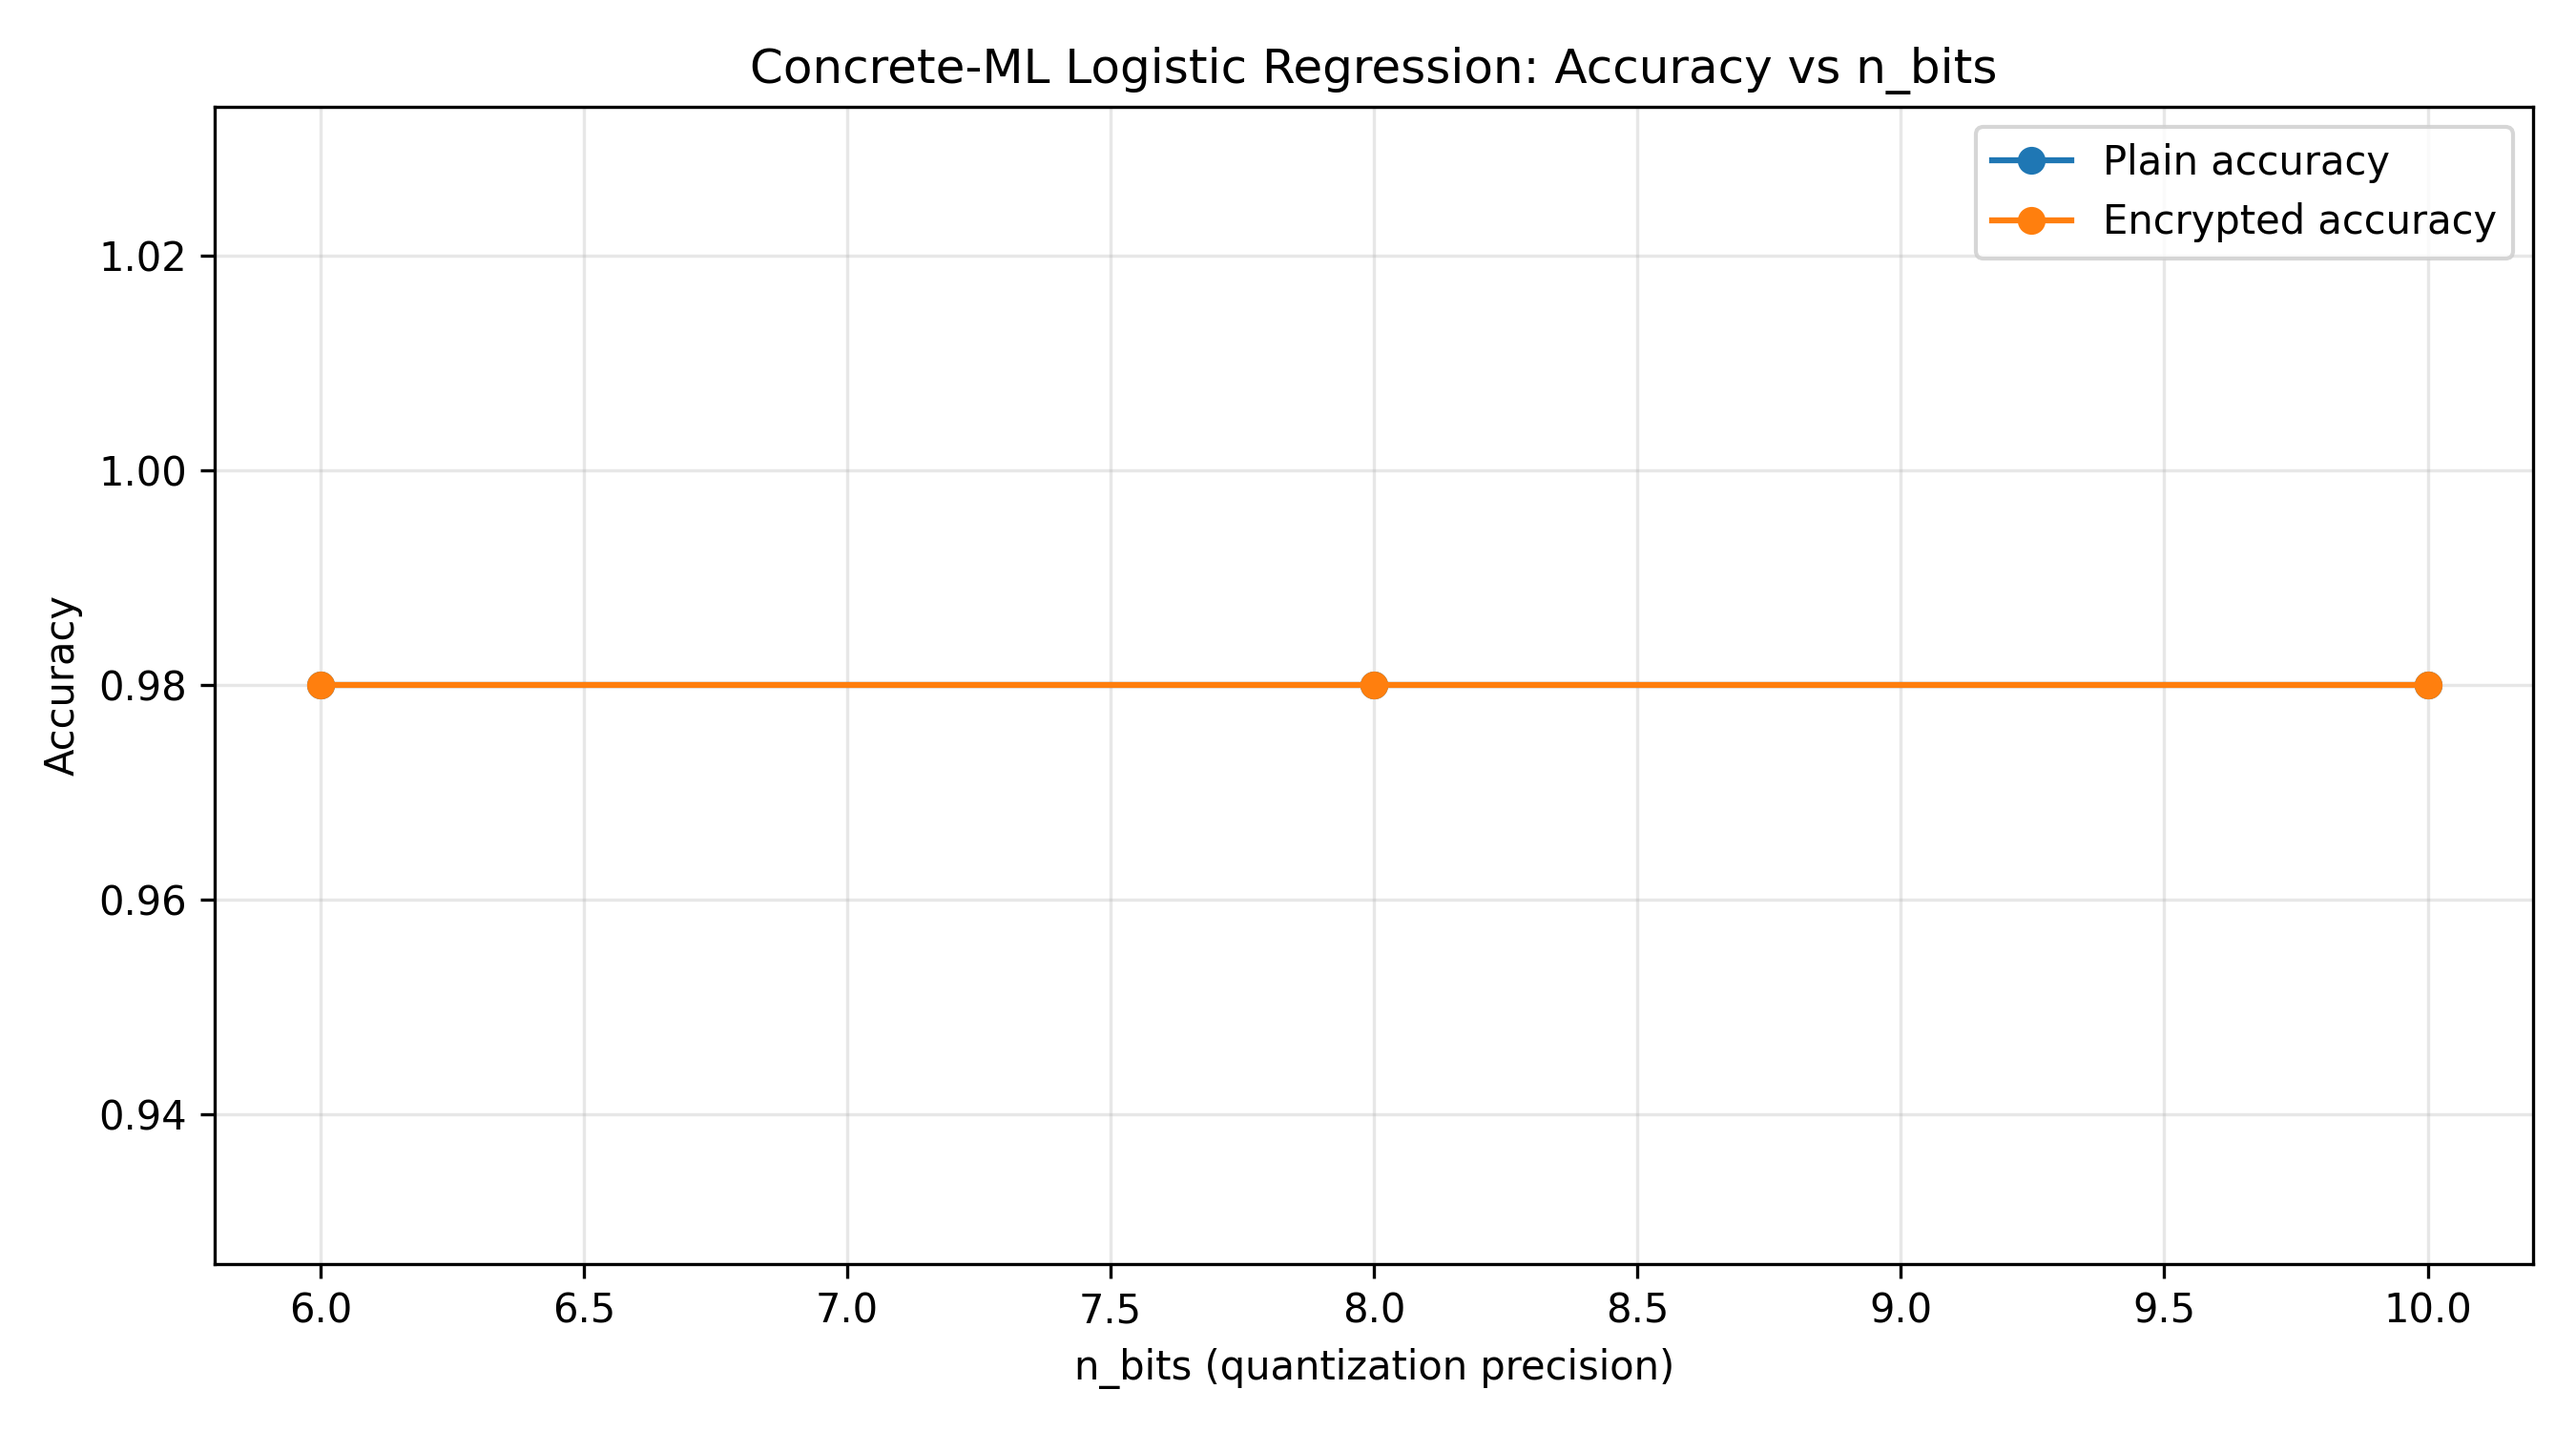
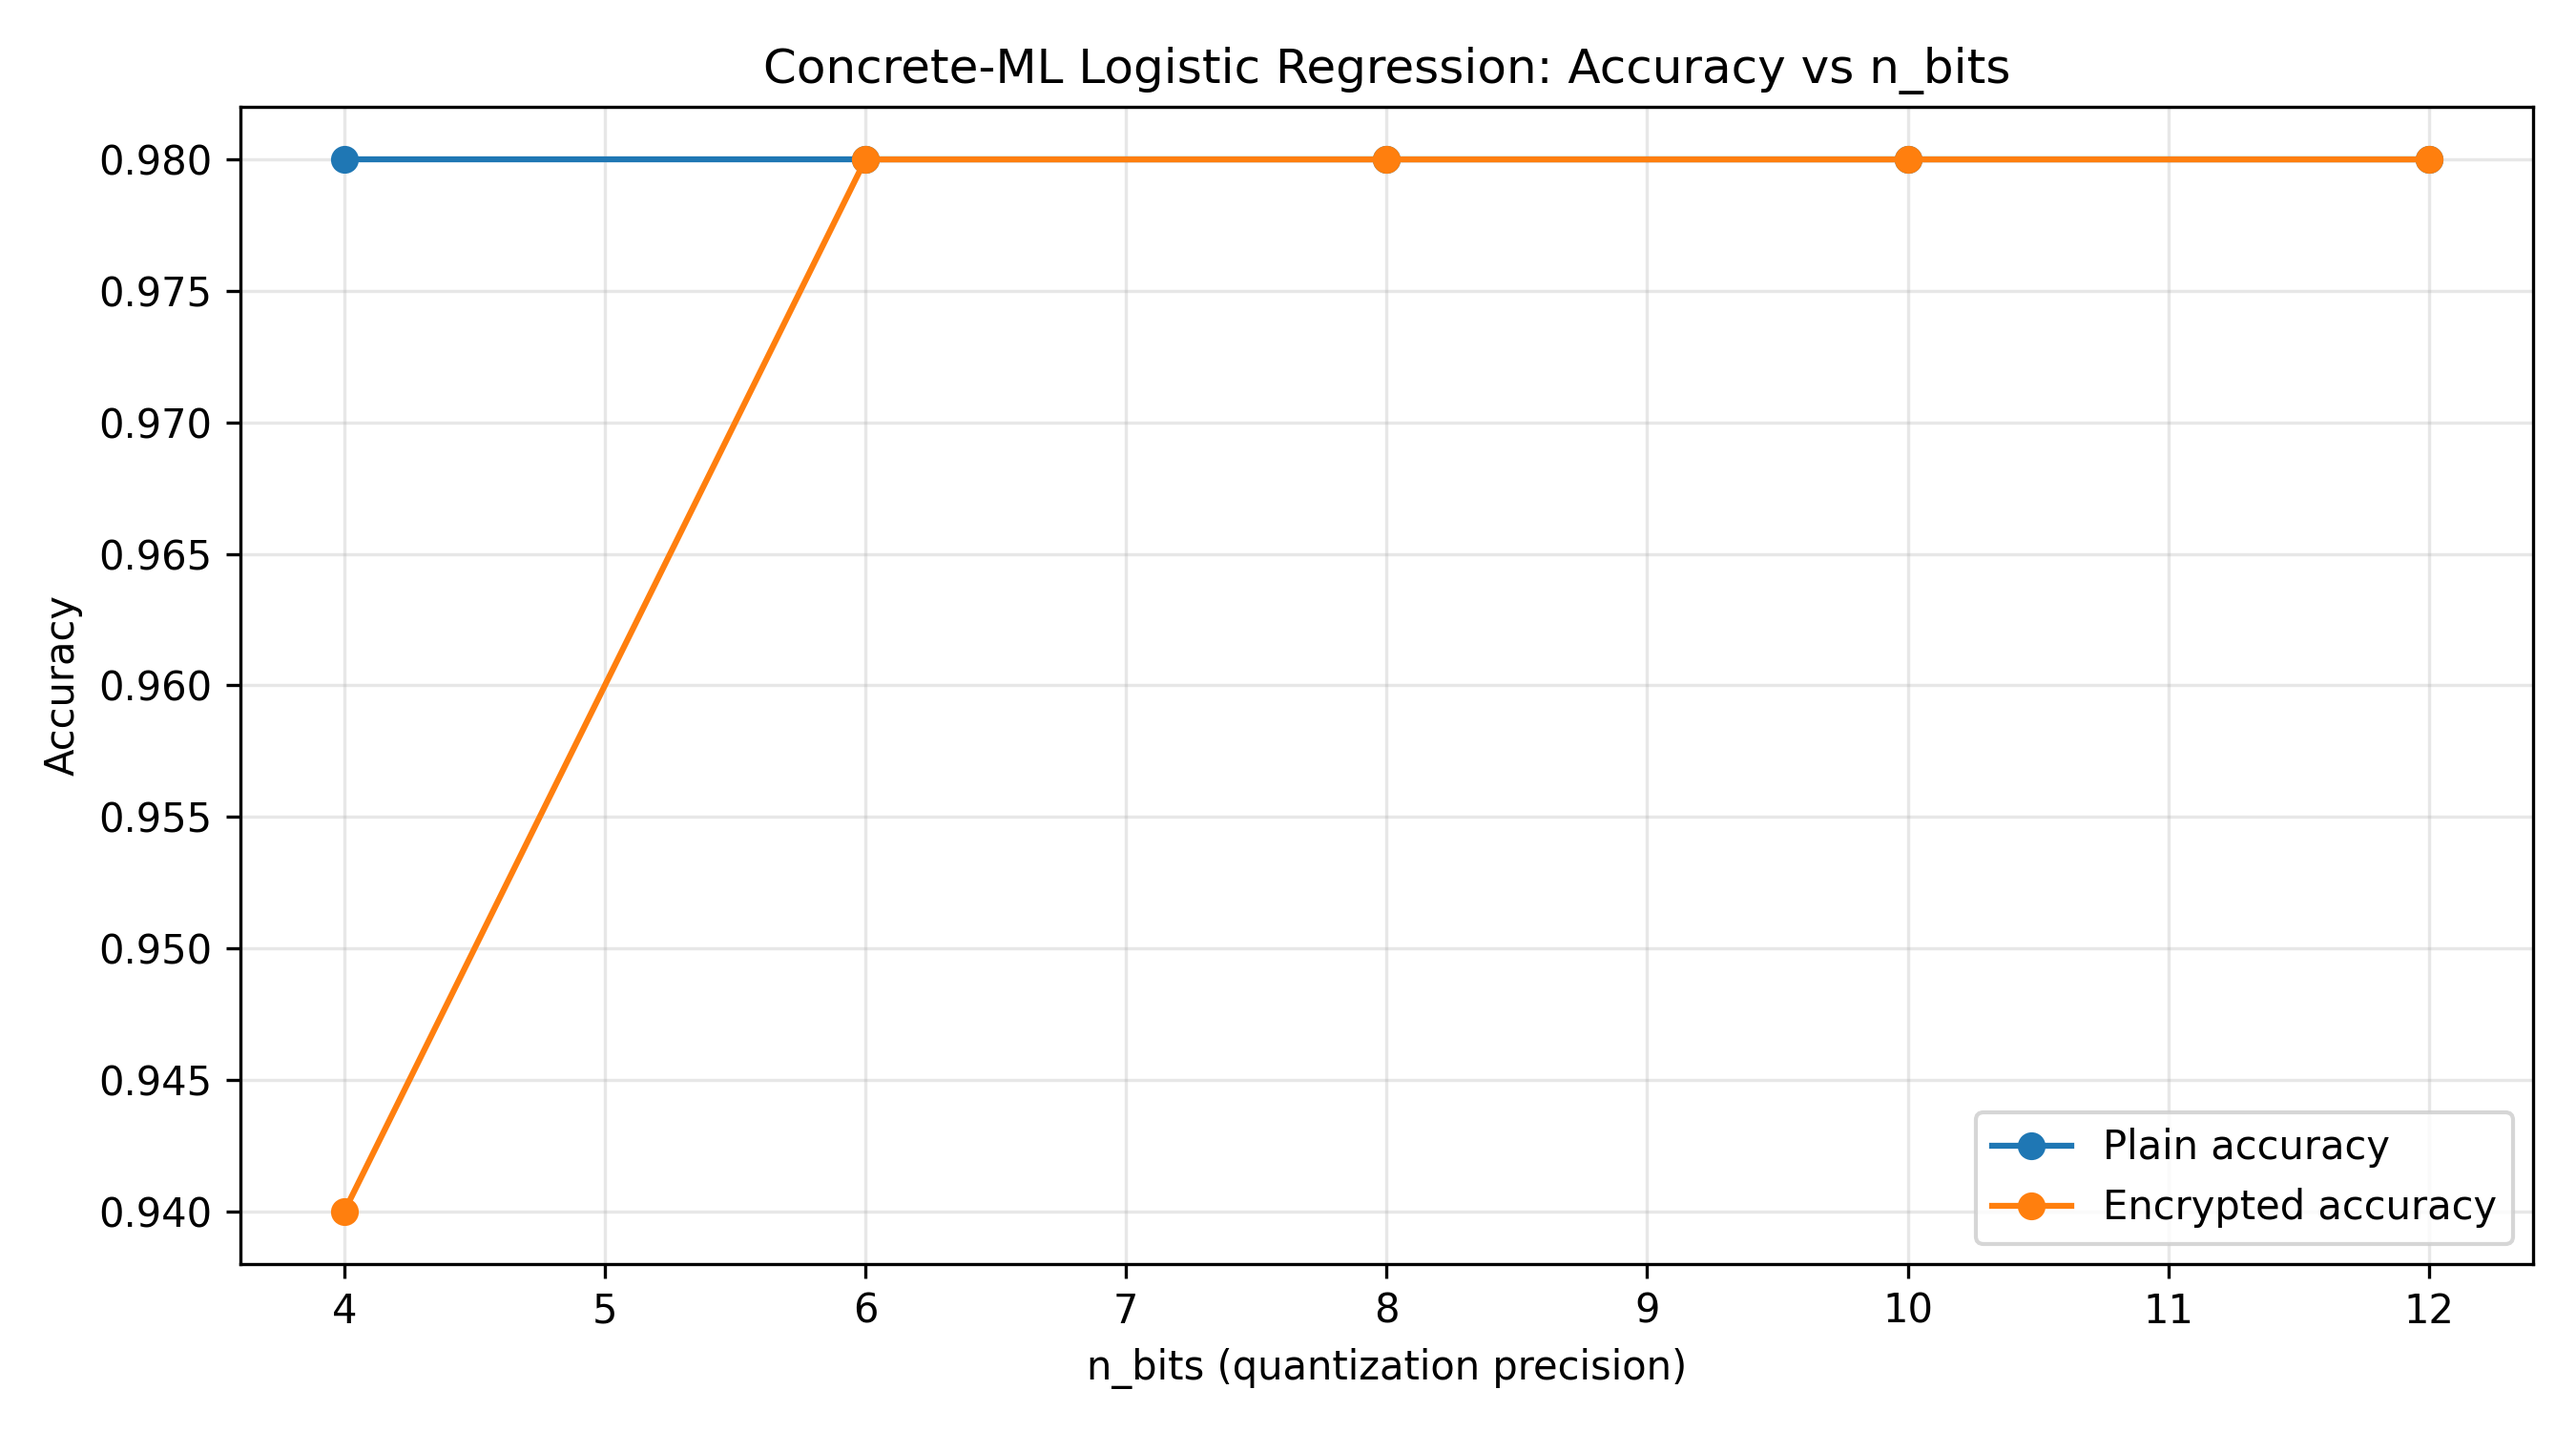
feat: analyze accuracy–precision trade-off in encrypted logistic regression

diff --git a/encrypted_ml/experiment_runner.py b/encrypted_ml/experiment_runner.py
@@ -15,12 +15,11 @@ from sklearn.preprocessing import StandardScaler
 from sklearn.linear_model import LogisticRegression as PlainLR
 from concrete.ml.sklearn import LogisticRegression as EncryptedLR
 
-
 RESULTS_DIR = Path("encrypted_ml/results")
 RESULTS_DIR.mkdir(parents=True, exist_ok=True)
 
 
-def run_experiment(n_bits, n_test=50):
+def run_experiment(n_bits, n_test=50, noise_std=0.15):
     data = load_breast_cancer()
     X, y = data.data, data.target
 
@@ -35,8 +34,13 @@ def run_experiment(n_bits, n_test=50):
     X_train = scaler.fit_transform(X_train)
     X_test = scaler.transform(X_test)
 
-    # Plain model
-    plain = PlainLR(max_iter=1000)
+    # Make task harder so n_bits effect is visible (controlled noise)
+    rng = np.random.default_rng(42)
+    X_train = X_train + rng.normal(0, noise_std, X_train.shape)
+    X_test = X_test + rng.normal(0, noise_std, X_test.shape)
+
+    # Plain model (baseline)
+    plain = PlainLR(max_iter=5000, C=2.0, solver="lbfgs")
     plain.fit(X_train, y_train)
 
     t0 = time.time()
@@ -45,7 +49,7 @@ def run_experiment(n_bits, n_test=50):
     acc_plain = accuracy_score(y_test, y_plain)
 
     # Encrypted model
-    enc = EncryptedLR(n_bits=n_bits)
+    enc = EncryptedLR(n_bits=n_bits, random_state=42)
     enc.fit(X_train, y_train)
     enc.compile(X_train)
 
@@ -55,20 +59,23 @@ def run_experiment(n_bits, n_test=50):
     acc_enc = accuracy_score(y_test, y_enc)
 
     return {
+        "dataset": "breast_cancer",
+        "n_test": n_test,
+        "noise_std": noise_std,
         "n_bits": n_bits,
-        "acc_plain": acc_plain,
-        "acc_encrypted": acc_enc,
-        "accuracy_drop": acc_plain - acc_enc,
-        "plain_time_ms": plain_time / n_test * 1000,
-        "encrypted_time_ms": enc_time / n_test * 1000,
-        "slowdown": enc_time / max(plain_time, 1e-9)
+        "acc_plain": float(acc_plain),
+        "acc_encrypted": float(acc_enc),
+        "accuracy_drop": float(acc_plain - acc_enc),
+        "plain_time_ms": float(plain_time / n_test * 1000),
+        "encrypted_time_ms": float(enc_time / n_test * 1000),
+        "slowdown": float(enc_time / max(plain_time, 1e-9)),
     }
 
 
 def main():
     results = []
 
-    for n_bits in [6, 8, 10]:
+    for n_bits in [4, 6, 8, 10, 12]:
         print(f"\nRunning experiment with n_bits={n_bits}")
         res = run_experiment(n_bits)
         results.append(res)
@@ -76,6 +83,7 @@ def main():
         print(
             f"Acc plain={res['acc_plain']:.3f}, "
             f"Acc enc={res['acc_encrypted']:.3f}, "
+            f"Drop={res['accuracy_drop']:.3f}, "
             f"Slowdown={res['slowdown']:.1f}x"
         )
 
